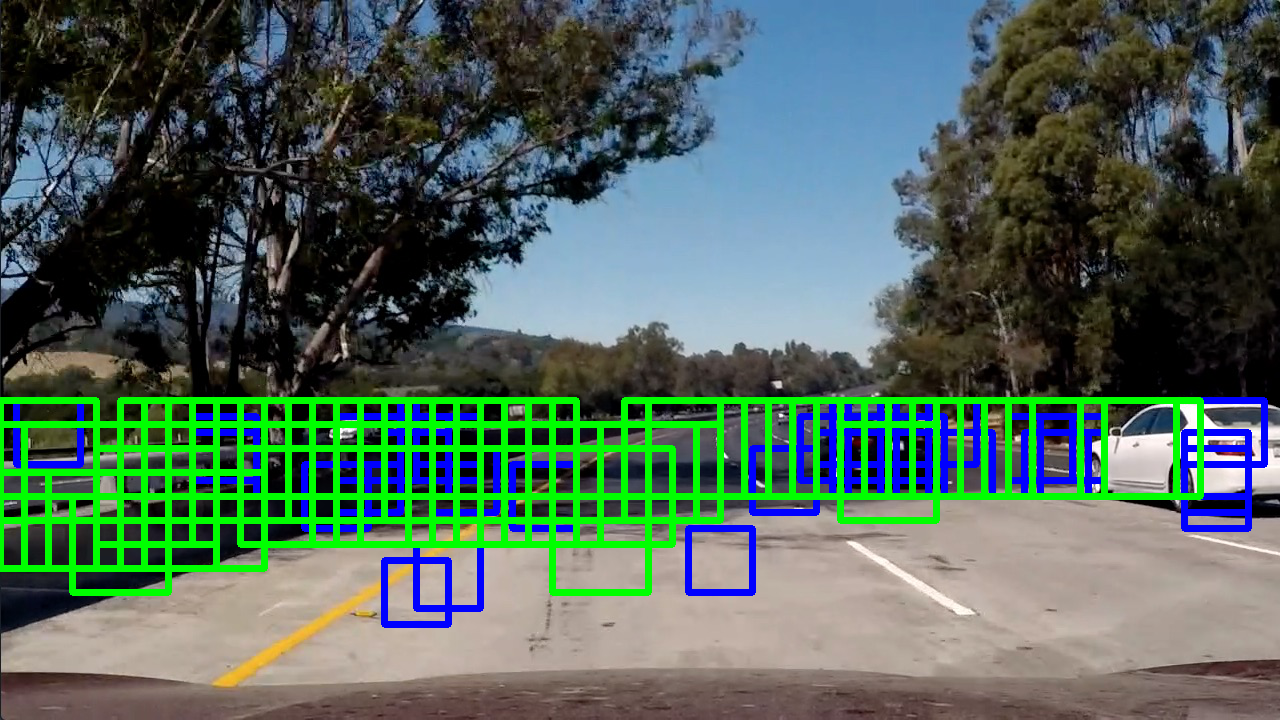
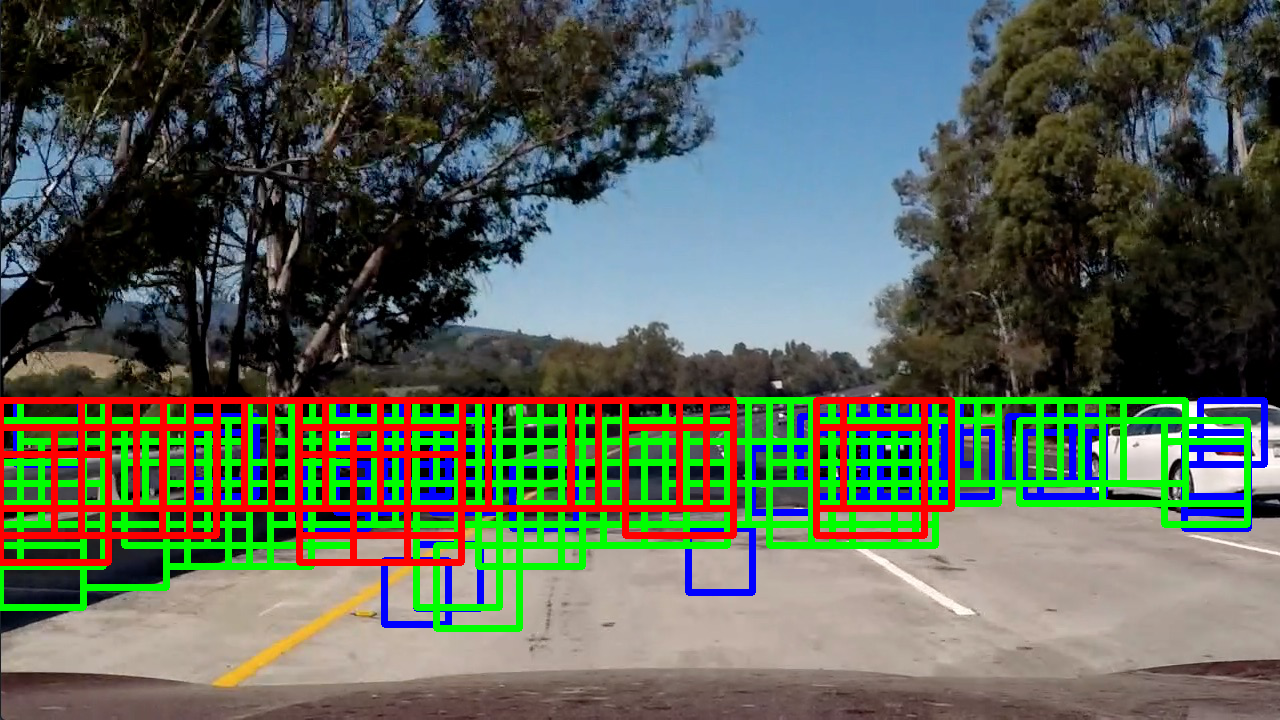
latest

Changed region(s): [[0.0, 0.55, 1.0, 0.8861]]

diff --git a/sliding.py b/sliding.py
@@ -12,7 +12,7 @@ def find_cars(img, ystart, ystop, scales, clf, X_scaler, orient, pix_per_cell, c
     img = img.astype(np.float32)/255
 
     img_tosearch = img[ystart:ystop,:,:]
-    ctrans_tosearch = convert_color(img_tosearch, conv='RGB2LUV')
+    ctrans_tosearch = convert_color(img_tosearch)
     # mpimg.imsave('output_images/img_tosearch.png', img_tosearch)
 
     # ctrans_tosearch = img_tosearch
@@ -23,8 +23,8 @@ def find_cars(img, ystart, ystop, scales, clf, X_scaler, orient, pix_per_cell, c
             imshape = ctrans_tosearch.shape
             ctrans_tosearch = cv2.resize(ctrans_tosearch, (np.int(imshape[1]/scale), np.int(imshape[0]/scale)))
         ch1 = ctrans_tosearch[:,:,0]
-        # ch2 = ctrans_tosearch[:,:,1]
-        # ch3 = ctrans_tosearch[:,:,2]
+        ch2 = ctrans_tosearch[:,:,1]
+        ch3 = ctrans_tosearch[:,:,2]
 
         # Define blocks and steps as above
         nxblocks = (ch1.shape[1] // pix_per_cell) - cell_per_block + 1
@@ -40,8 +40,8 @@ def find_cars(img, ystart, ystop, scales, clf, X_scaler, orient, pix_per_cell, c
 
         # Compute individual channel HOG features for the entire image
         hog1 = get_hog_features(ch1, orient, pix_per_cell, cell_per_block, feature_vec=False)
-        # hog2 = get_hog_features(ch2, orient, pix_per_cell, cell_per_block, feature_vec=False)
-        # hog3 = get_hog_features(ch3, orient, pix_per_cell, cell_per_block, feature_vec=False)
+        hog2 = get_hog_features(ch2, orient, pix_per_cell, cell_per_block, feature_vec=False)
+        hog3 = get_hog_features(ch3, orient, pix_per_cell, cell_per_block, feature_vec=False)
 
         for xb in range(nxsteps):
             for yb in range(nysteps):
@@ -50,9 +50,9 @@ def find_cars(img, ystart, ystop, scales, clf, X_scaler, orient, pix_per_cell, c
                 xpos = xb*cells_per_step
                 # Extract HOG for this patch
                 hog_feat1 = hog1[ypos:ypos+nblocks_per_window, xpos:xpos+nblocks_per_window].ravel()
-                # hog_feat2 = hog2[ypos:ypos+nblocks_per_window, xpos:xpos+nblocks_per_window].ravel()
-                # hog_feat3 = hog3[ypos:ypos+nblocks_per_window, xpos:xpos+nblocks_per_window].ravel()
-                hog_features = hog_feat1#np.hstack((hog_feat1, hog_feat2, hog_feat3))
+                hog_feat2 = hog2[ypos:ypos+nblocks_per_window, xpos:xpos+nblocks_per_window].ravel()
+                hog_feat3 = hog3[ypos:ypos+nblocks_per_window, xpos:xpos+nblocks_per_window].ravel()
+                hog_features = np.hstack((hog_feat1, hog_feat2, hog_feat3))
 
                 xleft = xpos*pix_per_cell
                 ytop = ypos*pix_per_cell
